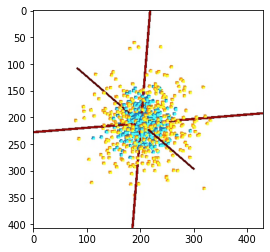
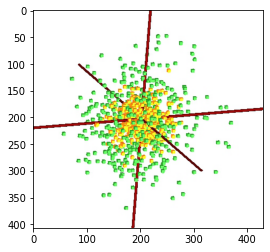
fix(anatomist) color set behavior

diff --git a/dico_toolbox/anatomist/AnatomistBase.py b/dico_toolbox/anatomist/AnatomistBase.py
@@ -229,8 +229,17 @@ class Anatomist():
         self._add_objects(
             *objects, window_names=[window_name], auto_color=auto_color)
 
-    def set_objects_color(self, *object_names, color=None, r=None, g=None, b=None, a=1):
-        """Set the color of an existing object.
+    def _set_object_color(self, anatomist_object, r=None, g=None, b=None, a=None):
+        """update the color of an object by changing one or more of R,G,B,A."""
+        rgba_obj = anatomist_object.getInfo()['material']['diffuse']
+        for i, x in enumerate([r, g, b, a]):
+            if x is not None:
+                rgba_obj[i] = x
+        m = self._instance.Material(diffuse=rgba_obj)
+        anatomist_object.setMaterial(m)
+
+    def set_objects_color(self, *object_names, color=None, r=None, g=None, b=None, a=None):
+        """Set the color of existing objects.
 
         Args:
             color (str, list or dict, optional): The color of the object. Defaults to None.
@@ -244,34 +253,27 @@ class Anatomist():
 
         """
 
-        if color is not None:
-            d = colors.parse_color_argument(color)
-            if r is not None:
-                d['r'] = r
-            if g is not None:
-                d['g'] = g
-            if b is not None:
-                d['b'] = b
-            if a is not None:
-                d['a'] = a
-
-            r, g, b, a = d['r'], d['g'], d['b'], d['a']
-
-        else:
-            r = 0 if r is None else r
-            g = 0 if g is None else g
-            b = 0 if b is None else b
-
-        m = self._instance.Material(diffuse=[r, g, b, a])
+        color = {} if color is None else color
 
         object_names = self._get_keys_of_first_argument_if_dict(object_names)
 
         for name in object_names:
             obj = self.anatomist_objects.get(name, None)
+
             if obj is None:
                 raise ValueError(f"The object {name} does not exist")
 
-            obj.setMaterial(m)
+            d = colors.parse_color_argument(color)
+            r = d.get('r', r)
+            g = d.get('g', g)
+            b = d.get('b', b)
+            a = d.get('a', a)
+
+            self._set_object_color(obj, r, g, b, a)
+
+    def set_objects_opacity(self, *object_names, opacity=1):
+        """Set the opacity of objects with a value in [0 transparent, 1 opaque]"""
+        self.set_objects_color(*object_names, a=opacity)
 
     def set_next_default_color(self, obj_name):
         """Set the next default color to the object"""
@@ -334,6 +336,7 @@ class Anatomist():
         return self.windows.get('quick', None)
 
     def clear_quick_window(self):
+        self.reset_color_cycle()
         self.clear_window('quick')
 
     def clear(self):

diff --git a/dico_toolbox/anatomist/colors/colors.py b/dico_toolbox/anatomist/colors/colors.py
@@ -39,6 +39,8 @@ def parse_color_argument(color):
     elif isinstance(color, str):
         # argument is a string
         try:
+            if color in color_values.color_short:
+                color = color_values.color_short[color]
             rgb = color_values.colors[color]
             d = dict(zip('rgb', rgb))
         except KeyError:

diff --git a/README.md b/README.md
@@ -74,6 +74,7 @@ rpc2 = (10*np.random.randn(400,3)).astype(int)
 
 ```python
 # draw objects (with automatic colors) 
+an.clear()
 an(rpc1, rpc2)
 
 # an.color_random() can be used to re-assign random colors to all the objects
@@ -106,8 +107,8 @@ an(d)
 
 ```python
 # set colors
-an.set_objects_color('first', b=1)
-an.set_objects_color('second', g=1)
+an.set_objects_color('first', r=1, g=1, b=0)
+an.set_objects_color('second', r=0, g=0, b=1)
 ```
 
 
@@ -123,15 +124,27 @@ plt.imshow(an.snapshot());
 
 
 ```python
-# colors can also be specified as string or list
-an.set_objects_color('first', color='cyan')
-an.set_objects_color('second', color='magenta')
+an.set_objects_opacity("second",opacity=0.5)
 plt.imshow(an.snapshot());
 ```
 
 
     
 ![png](./docs/examples/markdown/readme/Readme_files//Readme_14_0.png)
+    
+
+
+
+```python
+# colors can also be specified as string or list
+an.set_objects_color('first', color='cyan')
+an.set_objects_color('second', color='m') # some colors have short names (m = magenta)
+plt.imshow(an.snapshot());
+```
+
+
+    
+![png](./docs/examples/markdown/readme/Readme_files//Readme_15_0.png)
     
 
 
@@ -144,7 +157,7 @@ plt.imshow(an.snapshot());
 
 
     
-![png](./docs/examples/markdown/readme/Readme_files//Readme_15_0.png)
+![png](./docs/examples/markdown/readme/Readme_files//Readme_16_0.png)
     
 
 
@@ -171,7 +184,7 @@ plt.imshow(an.snapshot());
 
 
     
-![png](./docs/examples/markdown/readme/Readme_files//Readme_18_0.png)
+![png](./docs/examples/markdown/readme/Readme_files//Readme_19_0.png)
     
 
 
